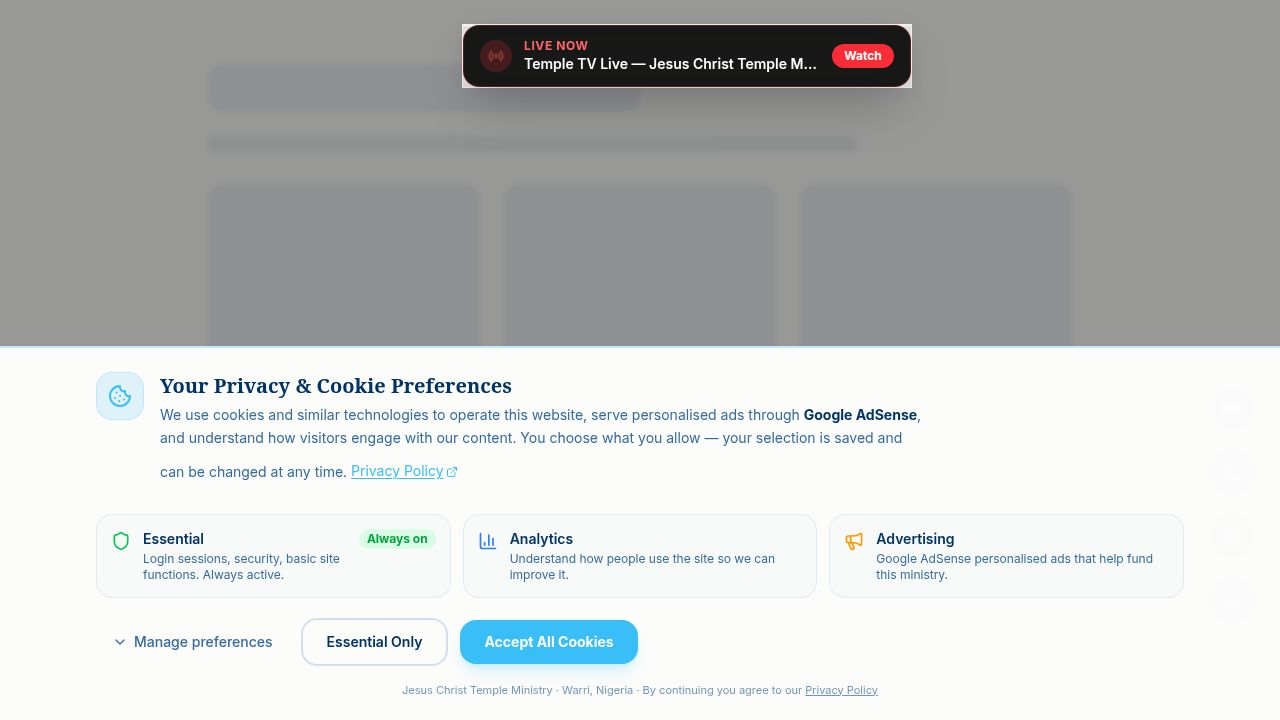
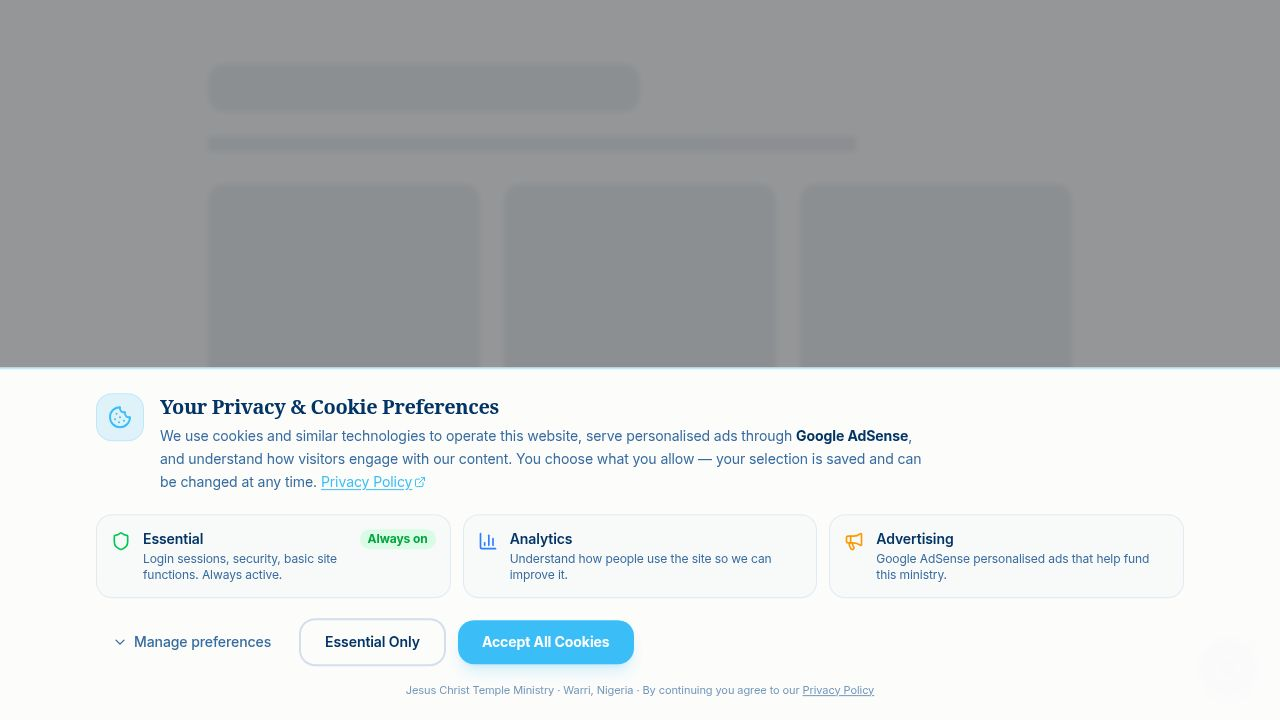
Update Ministry in Pictures to use dynamic image captions
Replace static text with dynamically generated captions for images in the Ministry in Pictures section, preserving Bible verses.

Replit-Commit-Author: Agent
Replit-Commit-Session-Id: 7ae3110f-7c49-4d33-8deb-97357dd369bd
Replit-Commit-Checkpoint-Type: full_checkpoint
Replit-Commit-Event-Id: 34a8ea15-539e-47d2-9ef2-e15a65dce28a
Replit-Commit-Screenshot-Url: https://storage.googleapis.com/screenshot-production-us-central1/f8f12d4b-75cb-4a0d-9373-420e9d70fbd6/7ae3110f-7c49-4d33-8deb-97357dd369bd/ovmLyiD

diff --git a/artifacts/jctm-platform/src/components/MinistrySlideshow.tsx b/artifacts/jctm-platform/src/components/MinistrySlideshow.tsx
@@ -895,13 +895,88 @@ const jpgModules = import.meta.glob(
   { eager: true, query: "?url", import: "default" },
 ) as Record<string, string>;
 
-interface ImageEntry { webp: string; jpg: string }
+interface ImageEntry { webp: string; jpg: string; caption: string; category: string }
 type FeaturedGalleryImage = {
   objectPath: string;
   thumbnailPath?: string | null;
   title?: string | null;
   altText?: string | null;
 };
+
+// ─── Curated captions for static DSC assets ──────────────────────────────────
+// These are used when no gallery metadata is available (local attached assets).
+const STATIC_CAPTIONS: { caption: string; category: string }[] = [
+  { caption: "The congregation gathered in fervent worship at Jesus Christ Temple Ministry, Warri", category: "Sunday Service" },
+  { caption: "Prophet Amos Evomobor ministers the undiluted Word of God to a captivated congregation", category: "Bible Teaching" },
+  { caption: "The house of God overflows with praise as the spirit of worship fills the sanctuary", category: "Worship Night" },
+  { caption: "Believers bow in corporate intercession — the prayer altar burning with holy fire", category: "Prayer Meeting" },
+  { caption: "Sunday service at JCTM Warri: unity, holiness, and the move of the Holy Spirit", category: "Sunday Service" },
+  { caption: "The anointing flows as minister lays hands on the flock during a moment of impartation", category: "Ministry Moment" },
+  { caption: "Children of God assembled at JCTM for the weekly Holy Spirit Sunday Service", category: "Sunday Service" },
+  { caption: "The Correction Mandate preached with power — bringing the church back to apostolic foundations", category: "Bible Teaching" },
+  { caption: "A night of spiritual encounter as the glory of God descends on the assembly", category: "Evening Service" },
+  { caption: "Corporate praise and worship lifting the name of Jesus in one voice at JCTM", category: "Worship Night" },
+  { caption: "The Word of Truth going forth with boldness — restoring primitive Christianity", category: "Bible Teaching" },
+  { caption: "Members of JCTM standing in the faith, clothed with righteousness and holiness", category: "Sunday Service" },
+  { caption: "The prophet addresses the congregation with the fire of apostolic truth", category: "Prophetic Service" },
+  { caption: "Crusade night — multitudes gathering to receive the miracle-working power of Jesus Christ", category: "Crusade" },
+  { caption: "The sound of intercession rises from JCTM as the saints call upon the living God", category: "Prayer Meeting" },
+  { caption: "Temple TV capturing the move of God — broadcasting the Correction Mandate to 40+ nations", category: "Temple TV" },
+  { caption: "Choir ministering in the beauty of holiness as the Holy Spirit moves sovereignly", category: "Worship Night" },
+  { caption: "Baptism in the Holy Spirit — the early church experience restored at JCTM Warri", category: "Holy Spirit Service" },
+  { caption: "Ministers of the gospel gathered at JCTM for strategic kingdom assignment", category: "Ministry Meeting" },
+  { caption: "Bible study session — digging deep into the eternal truths of God's Word", category: "Bible Study" },
+  { caption: "The congregation receives impartation as the anointing breaks every yoke", category: "Ministry Moment" },
+  { caption: "Youth on fire for God — the next generation rising in holiness at JCTM", category: "Youth Service" },
+  { caption: "Fervent worship at the feet of Jesus — JCTM Warri alive with the presence of God", category: "Worship Night" },
+  { caption: "A moment of supernatural encounter as heaven touches earth at the altar", category: "Altar Call" },
+  { caption: "Sunday morning gathering — the people of JCTM united in faith, love, and holiness", category: "Sunday Service" },
+  { caption: "The healing anointing demonstrated as God confirms His Word with signs and wonders", category: "Healing Service" },
+  { caption: "Testimonies of God's faithfulness shared as the congregation rejoices together", category: "Testimony Service" },
+  { caption: "The altar call — souls responding to the apostolic message of repentance and salvation", category: "Altar Call" },
+  { caption: "Prophet Amos Evomobor in deep intercession, standing in the gap for the nation", category: "Intercession" },
+  { caption: "JCTM ministers going forth — carrying the light of truth to communities across Warri", category: "Outreach" },
+  { caption: "The house of God filled to capacity as revival breaks out in Warri, Nigeria", category: "Revival" },
+  { caption: "Holy Communion administered — the body and blood of Jesus Christ commemorated in reverence", category: "Communion Service" },
+  { caption: "Special evening service — God's people drawn into His holy presence at JCTM", category: "Evening Service" },
+  { caption: "Deliverance ministry in action — captives set free by the power of the Lord Jesus Christ", category: "Deliverance Service" },
+  { caption: "The congregation stands in unified worship — holiness filling every corner of the sanctuary", category: "Sunday Service" },
+  { caption: "Water baptism service — new converts publicly identifying with Christ's death and resurrection", category: "Baptism Service" },
+  { caption: "Leadership at JCTM gathered for prophetic declaration and spiritual strategy", category: "Leadership Meeting" },
+  { caption: "Vibrant worship at JCTM — sound and glory filling the atmosphere of praise", category: "Worship Night" },
+  { caption: "The congregation receives the prophetic Word with great joy and expectation", category: "Prophetic Service" },
+  { caption: "JCTM women in ministry — vessels of honour, filled with the Holy Spirit and power", category: "Women's Ministry" },
+  { caption: "Open-air crusade — the gospel reaching the unreached across the Niger Delta region", category: "Crusade" },
+  { caption: "A special prayer session as the body of Christ stands together in spiritual warfare", category: "Prayer Meeting" },
+  { caption: "The worship team leading God's people into the throne room of grace", category: "Worship Night" },
+  { caption: "Apostolic truths preached to a generation hungry for the uncompromised Word of God", category: "Bible Teaching" },
+  { caption: "The joy of the Lord manifesting among the saints at Sunday service", category: "Sunday Service" },
+  { caption: "Healing meeting — the power of God touching bodies, minds, and spirits", category: "Healing Service" },
+  { caption: "JCTM in prayer — the incense of intercession rising before the throne of God", category: "Prayer Meeting" },
+  { caption: "Corporate declaration — the body of Christ speaking life, faith, and victory", category: "Sunday Service" },
+  { caption: "A powerful move of the Holy Spirit breaking chains and transforming lives at JCTM", category: "Holy Spirit Service" },
+  { caption: "God's presence tangible in the assembly — worship, prayer and the Word in one accord", category: "Sunday Service" },
+  { caption: "The fire of revival consuming hearts as the Spirit of God moves among His people", category: "Revival" },
+  { caption: "Apostolic preaching cuts through deception, calling God's people back to the ancient paths", category: "Bible Teaching" },
+  { caption: "The congregation responds to a fresh outpouring of the Holy Spirit at JCTM", category: "Holy Spirit Service" },
+  { caption: "Night vigil — JCTM saints keeping watch in the night season of prayer and worship", category: "Night Vigil" },
+  { caption: "Kingdom community gathered — bearing one another's burdens in love at JCTM Warri", category: "Sunday Service" },
+];
+
+function parseCaptionFromGallery(altText: string | null | undefined, title: string | null | undefined): { caption: string; category: string } {
+  const raw = altText?.trim() || title?.trim() || "";
+  if (!raw) return { caption: "Ministry moment captured at Jesus Christ Temple Ministry, Warri", category: "Ministry in Pictures" };
+  // Strip trailing " 32", " 42" etc. — auto-numbered suffixes added on bulk upload
+  const clean = raw.replace(/\s+\d+$/, "").trim();
+  // Strip trailing emoji sequences (common in titles)
+  const noEmoji = clean.replace(/\s*[\u{1F300}-\u{1FAFF}]+\s*$/u, "").trim();
+  // Split on " | " — first segment becomes category, rest becomes caption
+  const parts = noEmoji.split(/\s*\|\s*/);
+  if (parts.length >= 2) {
+    return { category: parts[0]!.trim(), caption: parts.slice(1).join(" — ").trim() };
+  }
+  return { category: "Ministry in Pictures", caption: noEmoji || clean };
+}
 
 function buildImageEntries(): ImageEntry[] {
   const webpByBase: Record<string, string> = {};
@@ -912,9 +987,11 @@ function buildImageEntries(): ImageEntry[] {
   for (const [p, url] of Object.entries(jpgModules)) {
     jpgByBase[p.split("/").pop()!.replace(/\.(jpg|jpeg)$/i, "")] = url;
   }
-  return Object.keys(webpByBase)
-    .filter((b) => jpgByBase[b])
-    .map((b) => ({ webp: webpByBase[b], jpg: jpgByBase[b] }));
+  const bases = Object.keys(webpByBase).filter((b) => jpgByBase[b]).sort();
+  return bases.map((b, i) => {
+    const sc = STATIC_CAPTIONS[i % STATIC_CAPTIONS.length]!;
+    return { webp: webpByBase[b]!, jpg: jpgByBase[b]!, caption: sc.caption, category: sc.category };
+  });
 }
 
 const ALL_IMAGES: ImageEntry[] = buildImageEntries();
@@ -928,9 +1005,9 @@ function galleryEntries(images: FeaturedGalleryImage[]): ImageEntry[] {
     .filter((image) => typeof image.objectPath === "string" && image.objectPath.startsWith("/objects/"))
     .map((image) => {
       const fullSrc = galleryImageUrl(image.objectPath);
-      // Use the WebP thumbnail as the preferred source if available — much smaller payload
       const thumbSrc = image.thumbnailPath ? galleryImageUrl(image.thumbnailPath) : fullSrc;
-      return { webp: thumbSrc, jpg: fullSrc };
+      const { caption, category } = parseCaptionFromGallery(image.altText, image.title);
+      return { webp: thumbSrc, jpg: fullSrc, caption, category };
     });
 }
 
@@ -1013,32 +1090,32 @@ function SlideDots({
 
 // ─── Caption content ──────────────────────────────────────────────────────────
 function CaptionContent({
-  slide, layout,
+  slide, image, layout,
 }: {
-  slide: Slide; layout: "overlay" | "side";
+  slide: Slide; image: ImageEntry; layout: "overlay" | "side";
 }) {
   const th = THEME[slide.theme] ?? THEME["Spiritual Growth"];
   const isSide = layout === "side";
   return (
     <div className={isSide ? "flex flex-col justify-center h-full" : "text-center"}>
-      {/* Theme pill */}
-      <div className="mb-3 inline-flex">
+      {/* Event / category badge — derived from the actual image */}
+      <div className={`mb-3 ${isSide ? "inline-flex" : "flex justify-center"}`}>
         <span
           className="text-[10px] font-bold uppercase tracking-[0.18em] px-2.5 py-1 rounded-full"
           style={{ color: th.accent, background: th.pill }}
         >
-          {slide.theme}
+          {image.category}
         </span>
       </div>
 
-      {/* Sermon point */}
+      {/* Image caption — describes the actual ministry moment photographed */}
       <h2
         className={`font-serif font-bold leading-snug text-white mb-4 ${
-          isSide ? "text-base sm:text-xl lg:text-2xl" : "text-xl sm:text-2xl md:text-3xl"
+          isSide ? "text-base sm:text-xl lg:text-2xl" : "text-lg sm:text-xl md:text-2xl"
         }`}
         style={{ textShadow: isSide ? "none" : "0 2px 22px rgba(0,0,0,0.75)" }}
       >
-        {slide.point}
+        {image.caption}
       </h2>
 
       {/* Accent rule */}
@@ -1047,7 +1124,7 @@ function CaptionContent({
         style={{ background: `${th.accent}65` }}
       />
 
-      {/* Scripture quote */}
+      {/* Scripture quote — preserved exactly as-is */}
       <p
         className={`font-serif italic leading-relaxed mb-2 ${
           isSide ? "text-xs sm:text-sm" : "text-sm sm:text-base"
@@ -1057,29 +1134,29 @@ function CaptionContent({
         "{slide.quote}"
       </p>
 
-      {/* Reference */}
+      {/* Scripture reference — preserved exactly as-is */}
       <p className="text-[11px] font-bold uppercase tracking-widest" style={{ color: `${th.accent}CC` }}>
         — {slide.ref}
       </p>
 
       <p className={`text-white/25 text-[9px] uppercase tracking-widest ${isSide ? "mt-5 hidden sm:block" : "mt-3"}`}>
-        {slide.sourceTitle ? "From Temple TV Sermons · JCTM Warri" : "Jesus Christ Temple Ministry · Warri, Nigeria"}
+        Jesus Christ Temple Ministry · Warri, Nigeria
       </p>
     </div>
   );
 }
 
-function SlideCaption({ slide, slideIdx, layout }: { slide: Slide; slideIdx: number; layout: "overlay" | "side" }) {
+function SlideCaption({ slide, slideIdx, image, layout }: { slide: Slide; slideIdx: number; image: ImageEntry; layout: "overlay" | "side" }) {
   return (
     <AnimatePresence mode="wait">
       <motion.div
-        key={`${slideIdx}-${slideKey(slide)}`}
+        key={`${slideIdx}-${image.webp}`}
         initial={{ opacity: 0, y: layout === "overlay" ? 18 : 8 }}
         animate={{ opacity: 1, y: 0 }}
         exit={{ opacity: 0, y: layout === "overlay" ? -12 : -6 }}
         transition={{ duration: 0.6, ease: [0.16, 1, 0.3, 1] }}
       >
-        <CaptionContent slide={slide} layout={layout} />
+        <CaptionContent slide={slide} image={image} layout={layout} />
       </motion.div>
     </AnimatePresence>
   );
@@ -1317,7 +1394,7 @@ export function MinistrySlideshow() {
                 }}
               />
               <div className="relative z-10 px-6 sm:px-9 py-7">
-                <SlideCaption slide={slide} slideIdx={slideIdx} layout="side" />
+                <SlideCaption slide={slide} slideIdx={slideIdx} image={currentEntry} layout="side" />
               </div>
             </div>
           </motion.div>
@@ -1367,7 +1444,7 @@ export function MinistrySlideshow() {
             />
             {/* Caption */}
             <div className="absolute inset-x-0 bottom-0 px-7 sm:px-14 pb-10 sm:pb-12">
-              <SlideCaption slide={slide} slideIdx={slideIdx} layout="overlay" />
+              <SlideCaption slide={slide} slideIdx={slideIdx} image={currentEntry} layout="overlay" />
             </div>
           </motion.div>
         )}

diff --git a/artifacts/jctm-platform/src/pages/Home.tsx b/artifacts/jctm-platform/src/pages/Home.tsx
@@ -3175,7 +3175,7 @@ function GlobalReach() {
           viewport={{ once: true }}
           transition={{ type: "spring", stiffness: 60, damping: 18 }}
         >
-          <p className="text-white/35 text-[10px] uppercase tracking-[0.25em] mb-4 font-medium text-center">Ministry in Pictures — Sermon Teachings, Scripture & Spiritual Growth</p>
+          <p className="text-white/35 text-[10px] uppercase tracking-[0.25em] mb-4 font-medium text-center">Ministry in Pictures — Moments of Faith, Worship & Spiritual Life at JCTM</p>
           <Suspense fallback={<div className="h-64 animate-pulse bg-white/5 rounded-2xl" />}>
             <MinistrySlideshow />
           </Suspense>